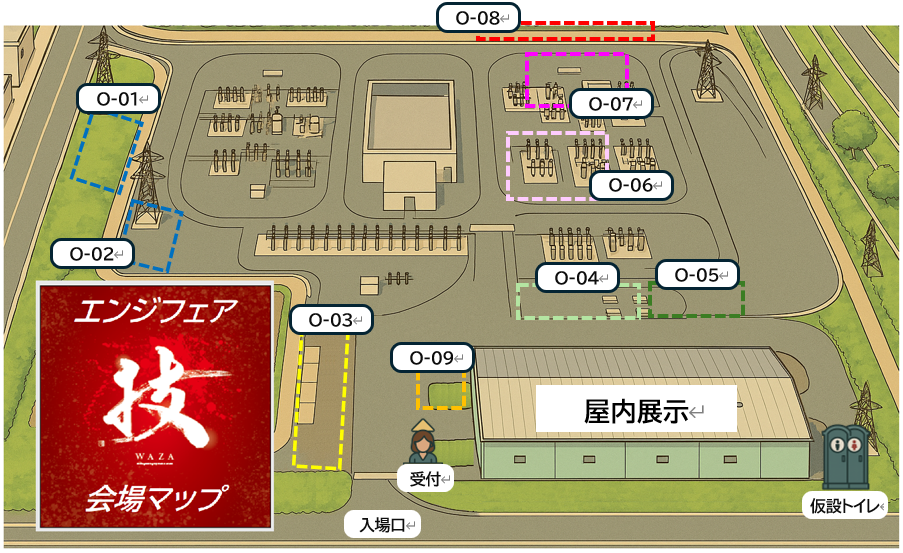
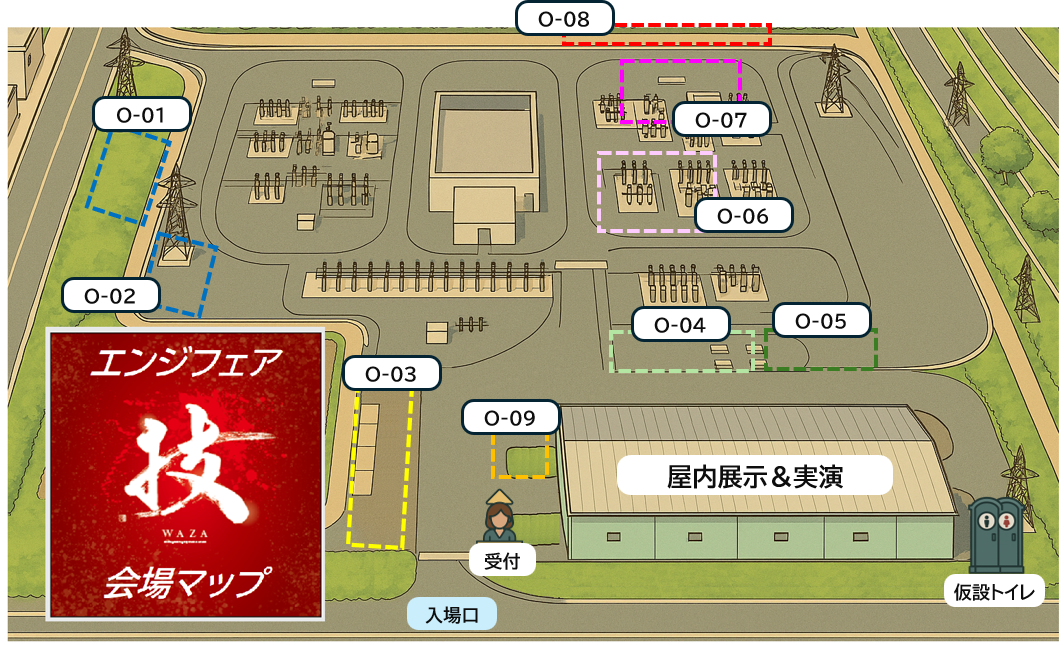
Add files via upload

diff --git a/indoor.html b/indoor.html
@@ -72,8 +72,8 @@
 <div id="map"></div>
 
 <div class="nav-links">
-  <a href="index.html">👀 屋外実演ブースＭＡＰへ</a>
-  <a href="booth_detail.html" class="secondary">📋 展示ブース一覧へ</a>
+  <a href="index.html">👀 屋外実演ブースＭＡＰ</a>
+  <a href="booth_detail.html" class="secondary">💡 展示ブース一覧</a>
 </div>
 
 <script>
@@ -112,79 +112,79 @@ const routeLayerA  = L.layerGroup();
 const indoorBooths = {  "type": "FeatureCollection","features": [
     { "type":"Feature","properties":{"id":"I-01","name":"＆Conote概要","time":"5〜10分","image":"I-X.png"},
 
-      "geometry":{"type":"Point","coordinates":[1100,440]}},
+      "geometry":{"type":"Point","coordinates":[1220,520]}},
 
     { "type":"Feature","properties":{"id":"I-02","name":"＆Conoteサービス","time":"5〜10分","image":"I-X.png"},
-      "geometry":{"type":"Point","coordinates":[1170,540]}},
+      "geometry":{"type":"Point","coordinates":[1300,500]}},
 
     { "type":"Feature","properties":{"id":"I-03","name":"コンサル海外事例","time":"5〜10分","image":"I-X.png"},
-      "geometry":{"type":"Point","coordinates":[1040,440]}},
+      "geometry":{"type":"Point","coordinates":[1150,490]}},
 
     { "type":"Feature","properties":{"id":"I-04","name":"記念撮影スポット","time":"5〜10分","image":"I-X.png"},
-      "geometry":{"type":"Point","coordinates":[1020,570]}},
+      "geometry":{"type":"Point","coordinates":[1150,580]}},
 
     { "type":"Feature","properties":{"id":"I-05","name":"各部門広報活動写真展示","time":"5〜10分","image":"I-X.png"},
-      "geometry":{"type":"Point","coordinates":[290,250]}},
+      "geometry":{"type":"Point","coordinates":[400,300]}},
 
     { "type":"Feature","properties":{"id":"I-06","name":"AIによる配電設備劣化判定","time":"5〜10分","image":"I-X.png"},
-      "geometry":{"type":"Point","coordinates":[370,440]}},
+      "geometry":{"type":"Point","coordinates":[340,440]}},
 
     { "type":"Feature","properties":{"id":"I-07","name":"ボルト緩み留め金具新型HSE『スマートスプリング』","time":"5〜10分","image":"I-X.png"},
-      "geometry":{"type":"Point","coordinates":[580,250]}},
+      "geometry":{"type":"Point","coordinates":[810,300]}},
 
     { "type":"Feature","properties":{"id":"I-08","name":"DFES『地域別電力需要予測システム』","time":"5〜10分","image":"I-X.png"},
-      "geometry":{"type":"Point","coordinates":[290,440]}},
+      "geometry":{"type":"Point","coordinates":[260,440]}},
 
     { "type":"Feature","properties":{"id":"I-09","name":"データ集約装置のデータ取得体験＆装置展示","time":"5〜10分","image":"I-X.png"},
-      "geometry":{"type":"Point","coordinates":[650,440]}},
+      "geometry":{"type":"Point","coordinates":[660,440]}},
 
     { "type":"Feature","properties":{"id":"I-09","name":"データ集約装置のデータ取得体験＆装置展示","time":"5〜10分","image":"I-X.png"},
-      "geometry":{"type":"Point","coordinates":[670,250]}},
+      "geometry":{"type":"Point","coordinates":[670,300]}},
 
     { "type":"Feature","properties":{"id":"I-10","name":"エンジニアリング支援ツール","time":"5〜10分","image":"I-X.png"},
-      "geometry":{"type":"Point","coordinates":[950,440]}},
+      "geometry":{"type":"Point","coordinates":[970,440]}},
 
     { "type":"Feature","properties":{"id":"I-11","name":"変電機器の保守技術","time":"5〜10分","image":"I-X.png"},
-      "geometry":{"type":"Point","coordinates":[800,440]}},
+      "geometry":{"type":"Point","coordinates":[820,440]}},
 
     { "type":"Feature","properties":{"id":"I-12","name":"SF6ガスレス機器","time":"5〜10分","image":"I-X.png"},
-      "geometry":{"type":"Point","coordinates":[800,250]}},
+      "geometry":{"type":"Point","coordinates":[910,300]}},
 
     { "type":"Feature","properties":{"id":"I-13","name":"受変電設備のセンシング","time":"5〜10分","image":"I-X.png"},
-      "geometry":{"type":"Point","coordinates":[880,440]}},
+      "geometry":{"type":"Point","coordinates":[900,440]}},
 
     { "type":"Feature","properties":{"id":"I-14","name":"変圧器の周囲温度測定","time":"5〜10分","image":"I-X.png"},
-      "geometry":{"type":"Point","coordinates":[720,440]}},
+      "geometry":{"type":"Point","coordinates":[740,440]}},
 
     { "type":"Feature","properties":{"id":"I-15","name":"系統用蓄電池を用いた実証試験","time":"5〜10分","image":"I-X.png"},
-      "geometry":{"type":"Point","coordinates":[410,250]}},
+      "geometry":{"type":"Point","coordinates":[500,300]}},
 
     { "type":"Feature","properties":{"id":"I-16","name":"FRP製ケーブル支持材","time":"5〜10分","image":"I-X.png"},
-      "geometry":{"type":"Point","coordinates":[500,250]}},
+      "geometry":{"type":"Point","coordinates":[580,300]}},
 
     { "type":"Feature","properties":{"id":"I-17","name":"ドローン訓練シミュレータ","time":"5〜10分","image":"I-X.png"},
-      "geometry":{"type":"Point","coordinates":[1110,250]}},
+      "geometry":{"type":"Point","coordinates":[1150,300]}},
 
     { "type":"Feature","properties":{"id":"I-18","name":"地中線埋設立会","time":"5〜10分","image":"I-X.png"},
-      "geometry":{"type":"Point","coordinates":[920,250]}},
+      "geometry":{"type":"Point","coordinates":[1010,300]}},
 
     { "type":"Feature","properties":{"id":"I-19","name":"歩行用アシストスーツ","time":"5〜10分","image":"I-X.png"},
-      "geometry":{"type":"Point","coordinates":[1030,250]}},
+      "geometry":{"type":"Point","coordinates":[1080,300]}},
 
     { "type":"Feature","properties":{"id":"I-20","name":"植物油変圧器","time":"5〜10分","image":"I-X.png"},
-      "geometry":{"type":"Point","coordinates":[570,440]}},
+      "geometry":{"type":"Point","coordinates":[580,440]}},
 
     { "type":"Feature","properties":{"id":"I-21","name":"リサイクル絶縁油","time":"5〜10分","image":"I-X.png"},
-      "geometry":{"type":"Point","coordinates":[500,440]}},
+      "geometry":{"type":"Point","coordinates":[490,440]}},
 
     { "type":"Feature","properties":{"id":"I-22","name":"ポリ管リサイクル","time":"5〜10分","image":"I-X.png"},
-      "geometry":{"type":"Point","coordinates":[440,440]}},
+      "geometry":{"type":"Point","coordinates":[420,440]}},
 
     { "type":"Feature","properties":{"id":"I-23","name":"枝打ち機械","time":"5〜10分","image":"I-X.png"},
-      "geometry":{"type":"Point","coordinates":[1220,250]}},
+      "geometry":{"type":"Point","coordinates":[1290,300]}},
 
     { "type":"Feature","properties":{"id":"I-24","name":"ドローン伐採","time":"5〜10分","image":"I-X.png"},
-      "geometry":{"type":"Point","coordinates":[1180,250]}},
+      "geometry":{"type":"Point","coordinates":[1220,300]}},
 
   ]
 };
@@ -220,7 +220,7 @@ L.geoJSON(indoorBooths,{
     L.marker(ll, {
       icon: L.divIcon({
         className: "star-marker",
-        html: '<span style="font-size:30px; color:#000000; font-weight:bold;">📋</span>',
+        html: '<span style="font-size:30px; color:#000000; font-weight:bold;">💡</span>',
         iconSize: [36, 36],
         iconAnchor: [18, 18]
       })
@@ -232,24 +232,24 @@ L.geoJSON(indoorBooths,{
 
 
 /* =========================================
-   見学ルート C（西側＆屋外）
+   見学ルート C（東側＆屋外）
 ========================================= */
 L.polyline(
   [
-    [300,120],
-    [300,1450],
-    [730,1450],
-    [730,120]   // ← 終点
+    [380,100],
+    [380,1480],
+    [750,1480],
+    [750,120]   // ← 終点
   ],
   {
-    color:"purple",
+    color:"pink",
     weight:3,
     dashArray:"6,6"
   }
 ).addTo(routeLayerA);
 
 /* 始点のマーク */
-L.marker([300,100], {
+L.marker([390,80], {
   icon: L.divIcon({
  　 html: '<span style="font-size:25px; color:#000000; font-weight:bold;">🚶</span>',
     iconSize: [30, 30],
@@ -258,7 +258,7 @@ L.marker([300,100], {
 }).addTo(routeLayerA);
 
 /* 終点のマーク */
-L.marker([730,100], {
+L.marker([750,100], {
   icon: L.divIcon({
     html: '<span style="font-size:20px; color:#000000; font-weight:bold;">🚩</span>',
     iconSize: [30, 30],
@@ -273,7 +273,7 @@ L.marker([730,100], {
 L.control.layers(
   null,
   {
-    "📋 屋内展示ブース": indoorLayer,
+    "💡 屋内展示ブース": indoorLayer,
     "🚶→🚩 見学ルート C（西側＆屋内エリア）": routeLayerA
   },
   { collapsed: false }

diff --git a/index.html b/index.html
@@ -74,8 +74,8 @@
 <div id="map"></div>
 
 <div class="nav-links">
-  <a href="indoor.html">🏢 屋内展示ブースＭＡＰへ</a>
-  <a href="booth_detail.html" class="secondary">📋 展示ブース一覧へ</a>
+  <a href="indoor.html">🏢 屋内展示ブースＭＡＰ</a>
+  <a href="booth_detail.html" class="secondary">💡 展示ブース一覧</a>
 </div>
 
 <script>
@@ -173,7 +173,7 @@ const indoorBooths = {  "type": "FeatureCollection",
       },
       "geometry": {
         "type": "Point",
-        "coordinates": [930, 260]
+        "coordinates": [900, 270]
       }
     }
   ]
@@ -248,7 +248,7 @@ L.geoJSON(indoorBooths,{
     L.marker(ll, {
       icon: L.divIcon({
         className: "star-marker",
-        html: '<span style="font-size:30px; color:#000000; font-weight:bold;">📋</span>',
+        html: '<span style="font-size:30px; color:#000000; font-weight:bold;">💡</span>',
         iconSize: [36, 36],
         iconAnchor: [18, 18]
       })
@@ -345,13 +345,13 @@ L.marker([665,800], {
 ========================================= */
 L.polyline(
   [
-    [230,650],
+    [240,650],
     [260,1390],
     [390,1340],
     [390,770]   // ← 終点
   ],
   {
-    color:"purple",
+    color:"pink",
     weight:3,
     dashArray:"6,6"
   }
@@ -383,7 +383,7 @@ L.control.layers(
   null,
   {
     "👀 屋外実演ブース": outdoorLayer,
-    "📋 屋内展示ブース": indoorLayer,
+    "💡 屋内展示ブース": indoorLayer,
     "🚶→🚩 見学ルート A（西側エリア）": routeLayerA,
     "🚶→🚩 見学ルート B（東側エリア）": routeLayerB,
     "🚶→🚩 見学ルート C（東側＆屋内エリア）": routeLayerC

diff --git a/booth_detail.html b/booth_detail.html
@@ -3,7 +3,7 @@
 <head>
 <meta charset="UTF-8">
 <meta name="viewport" content="width=device-width, initial-scale=1.0">
-<title>展示ブース一覧_【O：屋外展示－番号，I：屋内展示－番号】</title>
+<title>展示ブース一覧</title>
 
 <style>
   body {
@@ -46,19 +46,23 @@
        color:#fff;
        text-decoration:none;
        border-radius:6px;">
-    📋 屋内展示ブースＭＡＰへ
+    💡 屋内展示ブースＭＡＰへ
   </a>
 </div>
 
-<h1>展示ブース一覧_【O：屋外－番号，I：屋内－番号】</h1>
 
-<div id="O-01" class="booth">O-01：ハイドロマチックモア【送電】
+<h1>
+  展示ブース一覧<br>
+  【O：屋外展示－番号，I：屋内展示－番号】
+</h1>
+
+<div id="O-01" class="booth">O-01：車高調整式下草刈り機の操作体験
   <span class="schedule">👀実演スケジュール：10:20、11:20、12:20</span>
 </div>
-<div id="O-02" class="booth">O-02：パワーグリッドチェック【送電】
+<div id="O-02" class="booth">O-02：送電設備自動点検（POWER GRID Check)　実演
   <span class="schedule">👀実演スケジュール：10:05、11:00、12:00</span>
 </div>
-<div id="O-03" class="booth">O-03：安全ＡＩカメラ＆輪留めインターロック</div>
+<div id="O-03" class="booth">O-03：安全ＡＩカメラ＆輪留めインターロック</div> //←ここから//
 <div id="O-04" class="booth">O-04：伐採車両【配電】
   <span class="schedule">👀実演スケジュール：10:20、11:00、11:40</span>
 </div>
